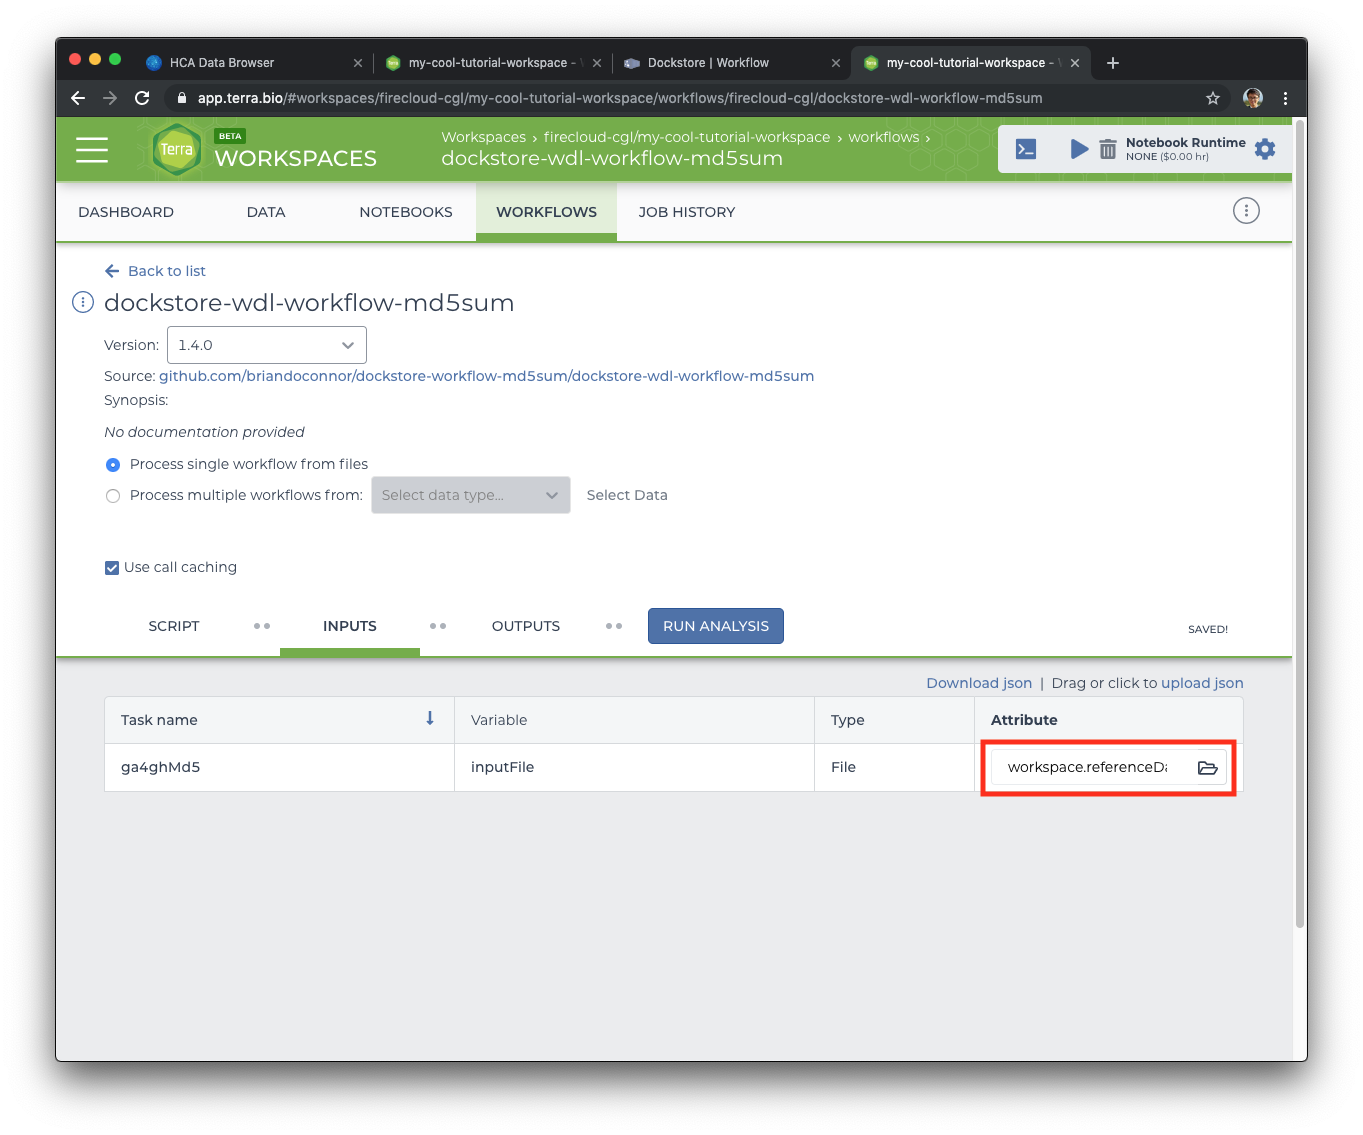
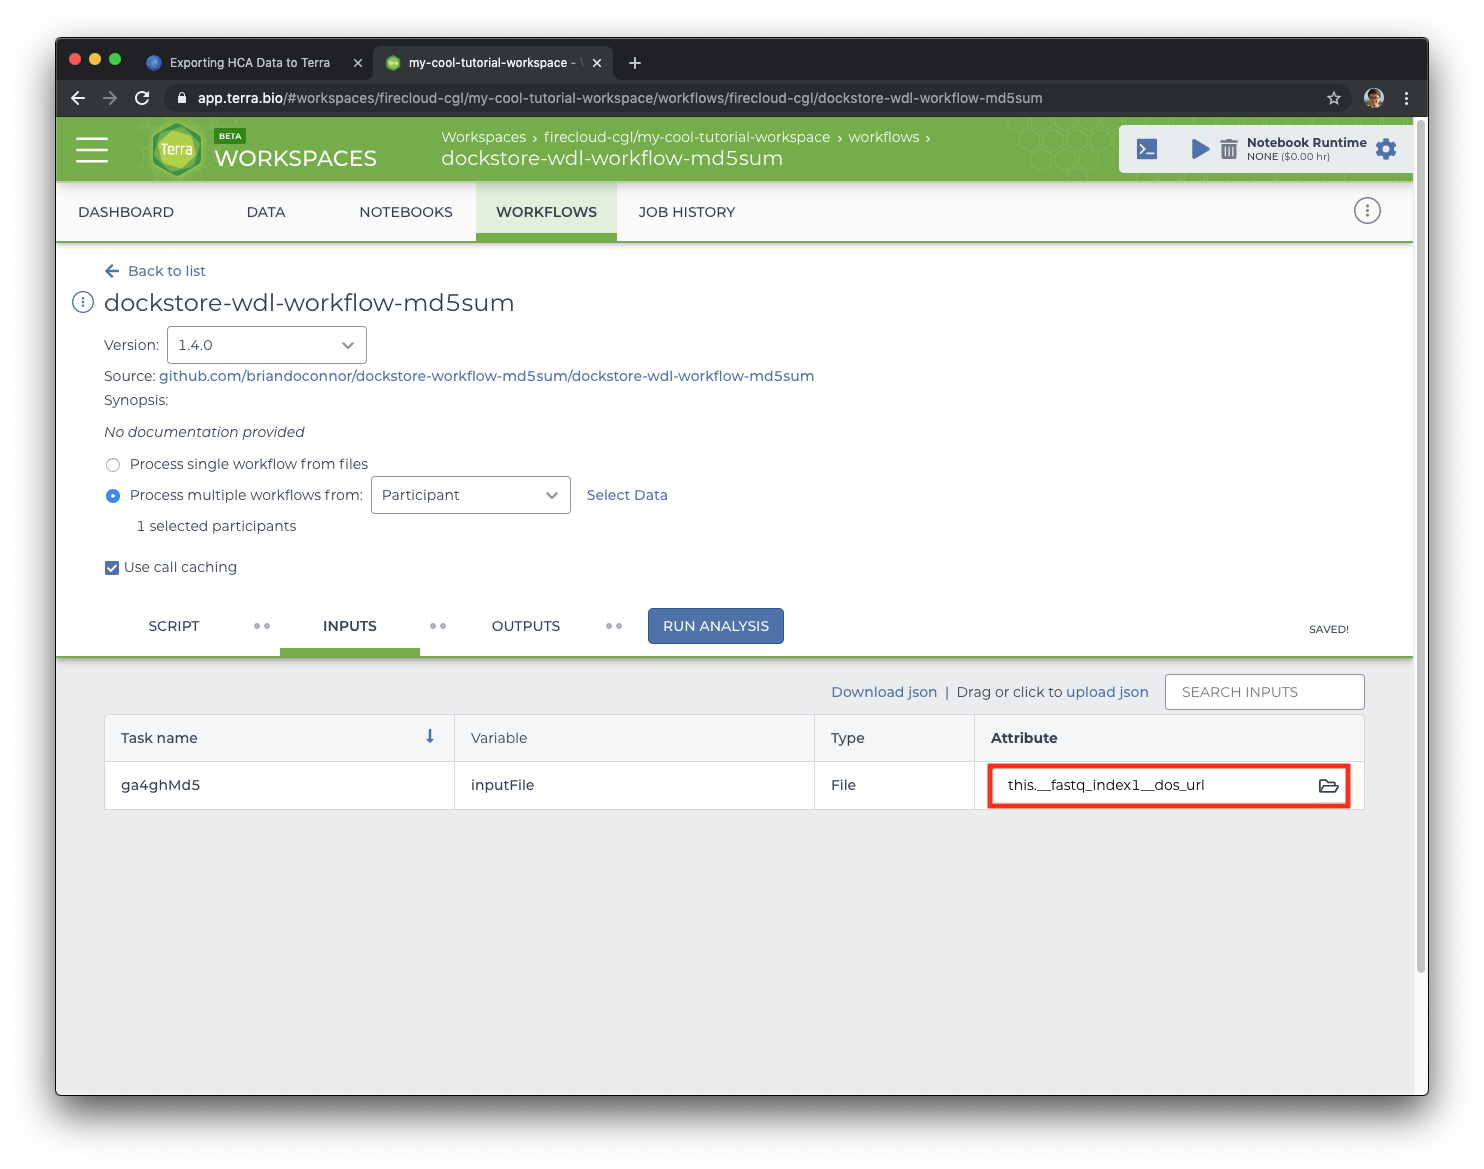
Update Terra export guide (closes #583)

Changed region(s): [[0.0308, 0.0308, 0.9861, 0.9559], [0.3081, 0.6167, 0.4006, 0.6784], [0.9244, 0.9251, 0.9552, 0.9559]]

diff --git a/content/guides/userguides/terra-export.md b/content/guides/userguides/terra-export.md
@@ -105,16 +105,18 @@ Step three: running the workflow in Terra
 -----------------------------------------
 
 On this screen, we want to select a single file from the data that we exported
-and find the MD5 checksum of that file. Make sure that the *Process single workflow
-from files* radio button is selected (so that we only calculate the checksum of a 
-single file) and then select the file you want to checksum by clicking on the 
-*Attribute* text field in the row with the *inputFile* variable. (It is highlighted
-with a red box in the screenshot above.)
+and find the MD5 checksum of that file. Make sure that the *Process multiple
+workflows* radio button is selected, then choose a single file to process by
+navigating to *Select Date* > *Choose specific rows to process*.
 
-Select any attribute pointing to a file. Once you are done, click *Save*. You will
-see a blue *Run Analysis* button pop up. Click that one, and confirm your input
-when prompted. Terra is now running the workflow - take a break for a few minutes,
-grab a coffee, stretch. You deserve it.
+Next, tell the workflow how to find the file you selected by setting the
+*inputFile* variable. Click on the *Attribute* field (red box in the
+screenshot above).
+Select the DRS URL attribute (something like `this.__bam__.drs_url`). Once
+you're done, click *Save*. You will see a blue *Run Analysis* button pop up.
+Click that one, and confirm your input when prompted. Terra's running the
+workflow now - walk away for a few minutes, grab a coffee, stretch. You
+deserve it.
 
 When you come back, refresh the page. Hopefully, your workflow will be done
 running. If it is, you will seem something like this:
